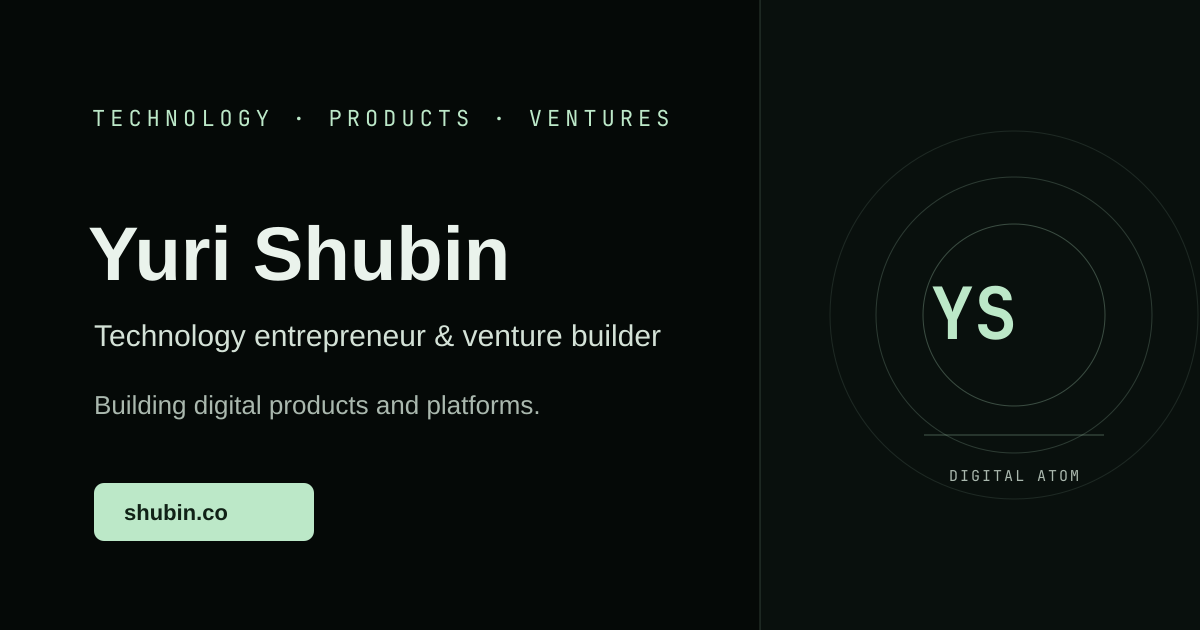
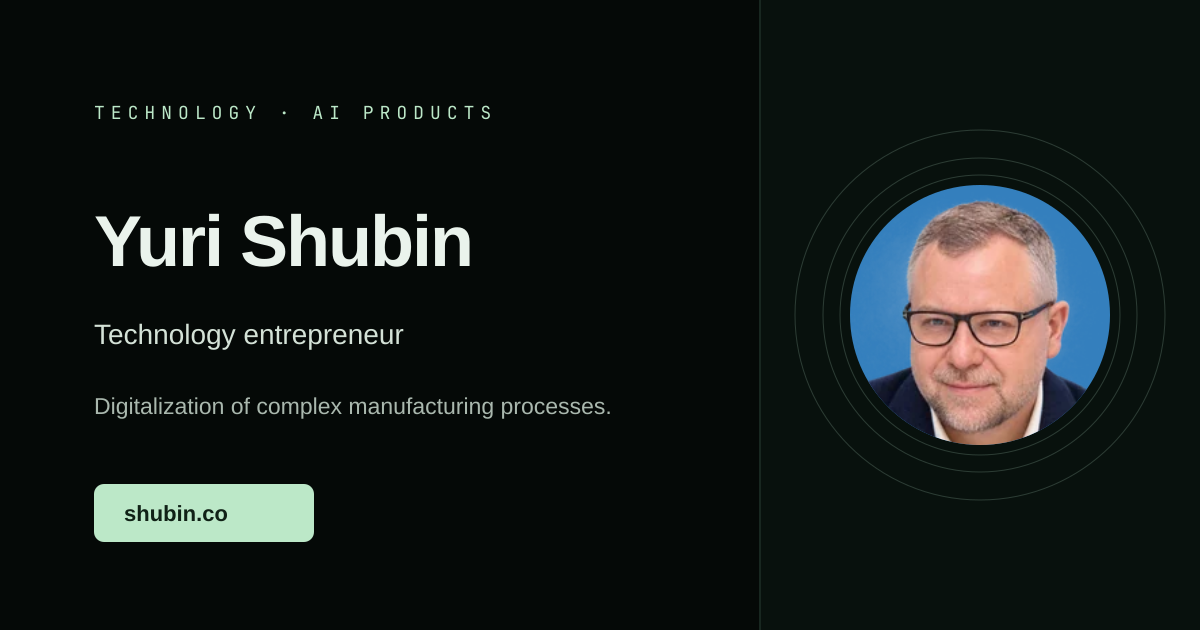
fix(site): refresh Open Graph profile card

diff --git a/index.html b/index.html
@@ -20,11 +20,13 @@
     <meta property="og:site_name" content="Yuri Shubin" />
     <meta property="og:locale" content="en_US" />
     <meta property="og:locale:alternate" content="ru_RU" />
-    <meta property="og:image" content="https://shubin.co/og-card.png" />
+    <meta property="og:image" content="https://shubin.co/og-card.png?v=2" />
     <meta property="og:image:width" content="1200" />
     <meta property="og:image:height" content="630" />
-    <meta property="og:image:alt" content="Yuri Shubin — technology and AI products profile card" />
-    <meta name="twitter:image" content="https://shubin.co/og-card.png" />
+    <meta property="og:image:type" content="image/png" />
+    <meta property="og:image:alt" content="Portrait of Yuri Shubin — technology entrepreneur." />
+    <meta name="twitter:image" content="https://shubin.co/og-card.png?v=2" />
+    <meta name="twitter:image:alt" content="Portrait of Yuri Shubin — technology entrepreneur." />
     <meta name="twitter:title" content="Yuri Shubin — Technology &amp; AI Products" />
     <meta name="twitter:description" content="Technology entrepreneur focused on digitalization of complex manufacturing processes." />
     <title>Yuri Shubin — Technology &amp; AI Products</title>
@@ -938,7 +940,7 @@
           descriptionMeta: 'Yuri Shubin — technology entrepreneur focused on digitalization of complex manufacturing processes. Selected work and contact details.',
           ogLocale: 'en_US',
           ogDescription: 'Technology entrepreneur focused on digitalization of complex manufacturing processes.',
-          ogImageAlt: 'Yuri Shubin — technology and AI products profile card',
+          ogImageAlt: 'Portrait of Yuri Shubin — technology entrepreneur.',
           shareTitle: 'Yuri Shubin — contact card',
           shareText: 'Contact card for Yuri Shubin.',
         },
@@ -967,7 +969,7 @@
           descriptionMeta: 'Юрий Шубин — технологический предприниматель. Цифровизация сложных производственных процессов. Контакты и избранная работа.',
           ogLocale: 'ru_RU',
           ogDescription: 'Юрий Шубин — технологический предприниматель. Цифровизация сложных производственных процессов.',
-          ogImageAlt: 'Профиль Юрия Шубина — технологии и ИИ продукты',
+          ogImageAlt: 'Портрет Юрия Шубина — технологический предприниматель.',
           shareTitle: 'Контактная карточка Юрия Шубина',
           shareText: 'Контакты Юрия Шубина.',
         },
@@ -1021,6 +1023,7 @@
         document.querySelector('meta[property="og:locale"]').content = copy.ogLocale;
         document.querySelector('meta[property="og:locale:alternate"]').content = language === 'en' ? 'ru_RU' : 'en_US';
         document.querySelector('meta[property="og:image:alt"]').content = copy.ogImageAlt;
+        document.querySelector('meta[name="twitter:image:alt"]').content = copy.ogImageAlt;
         syncMotionToggle();
       }
 
